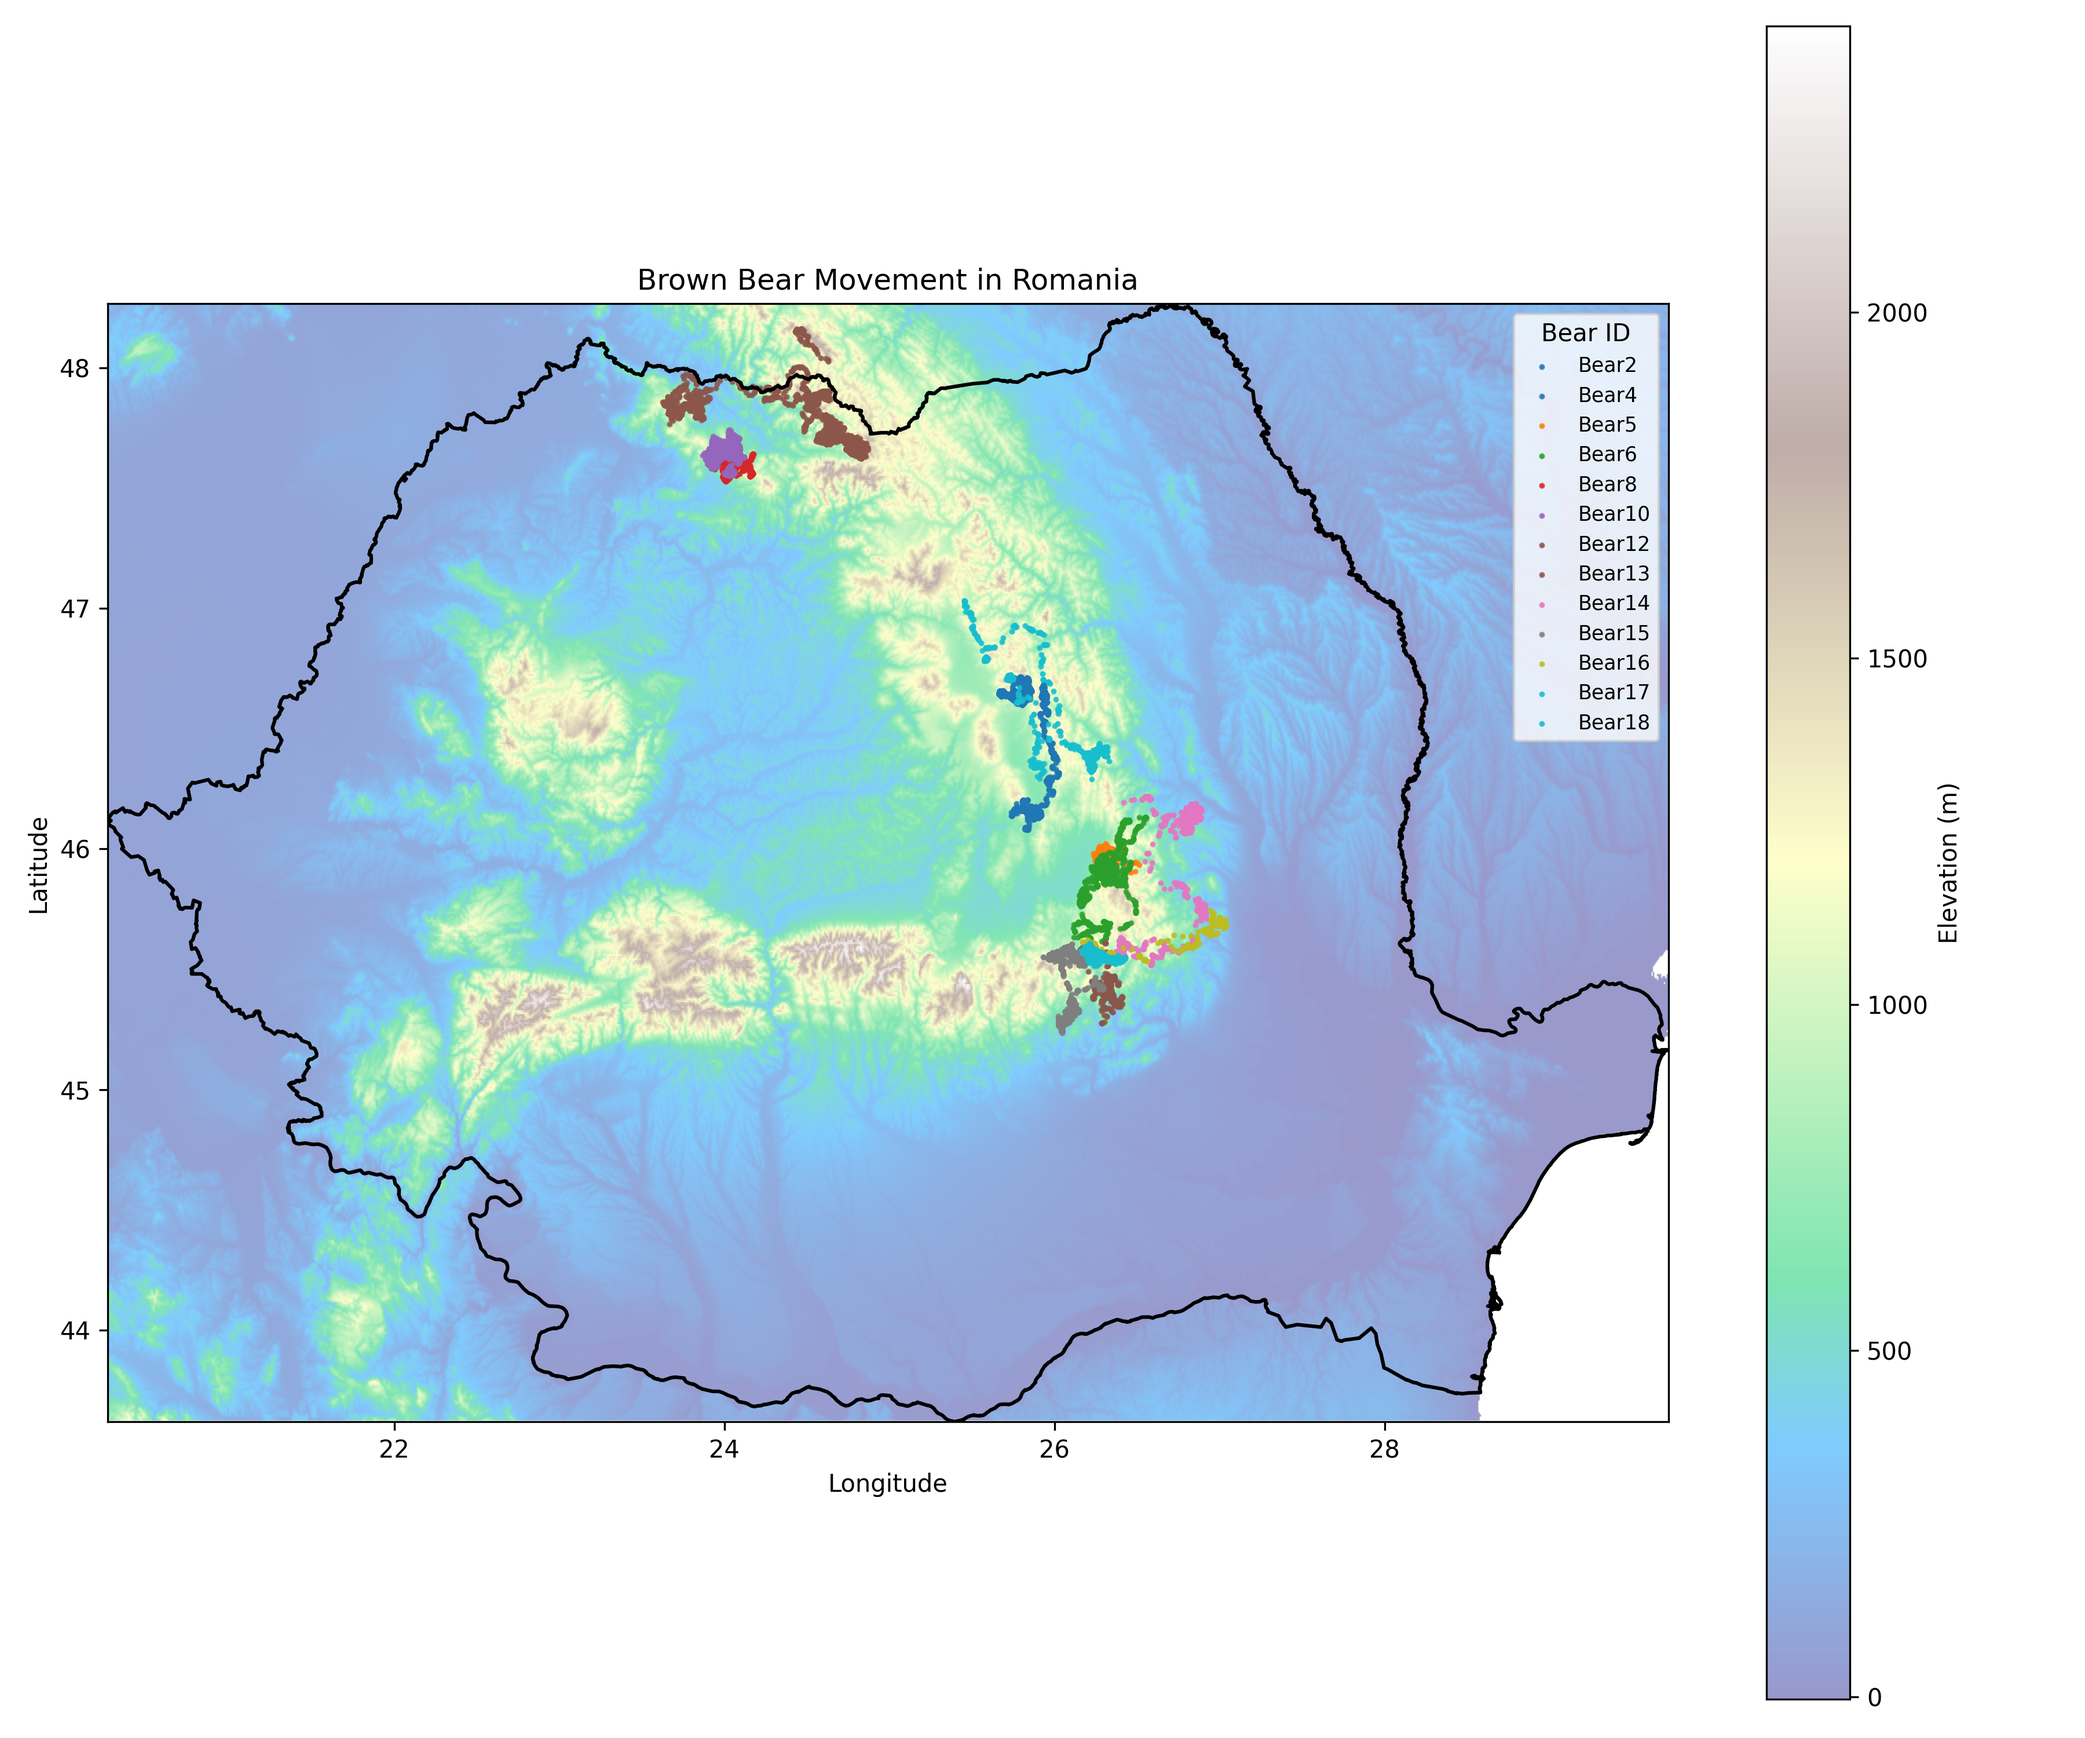
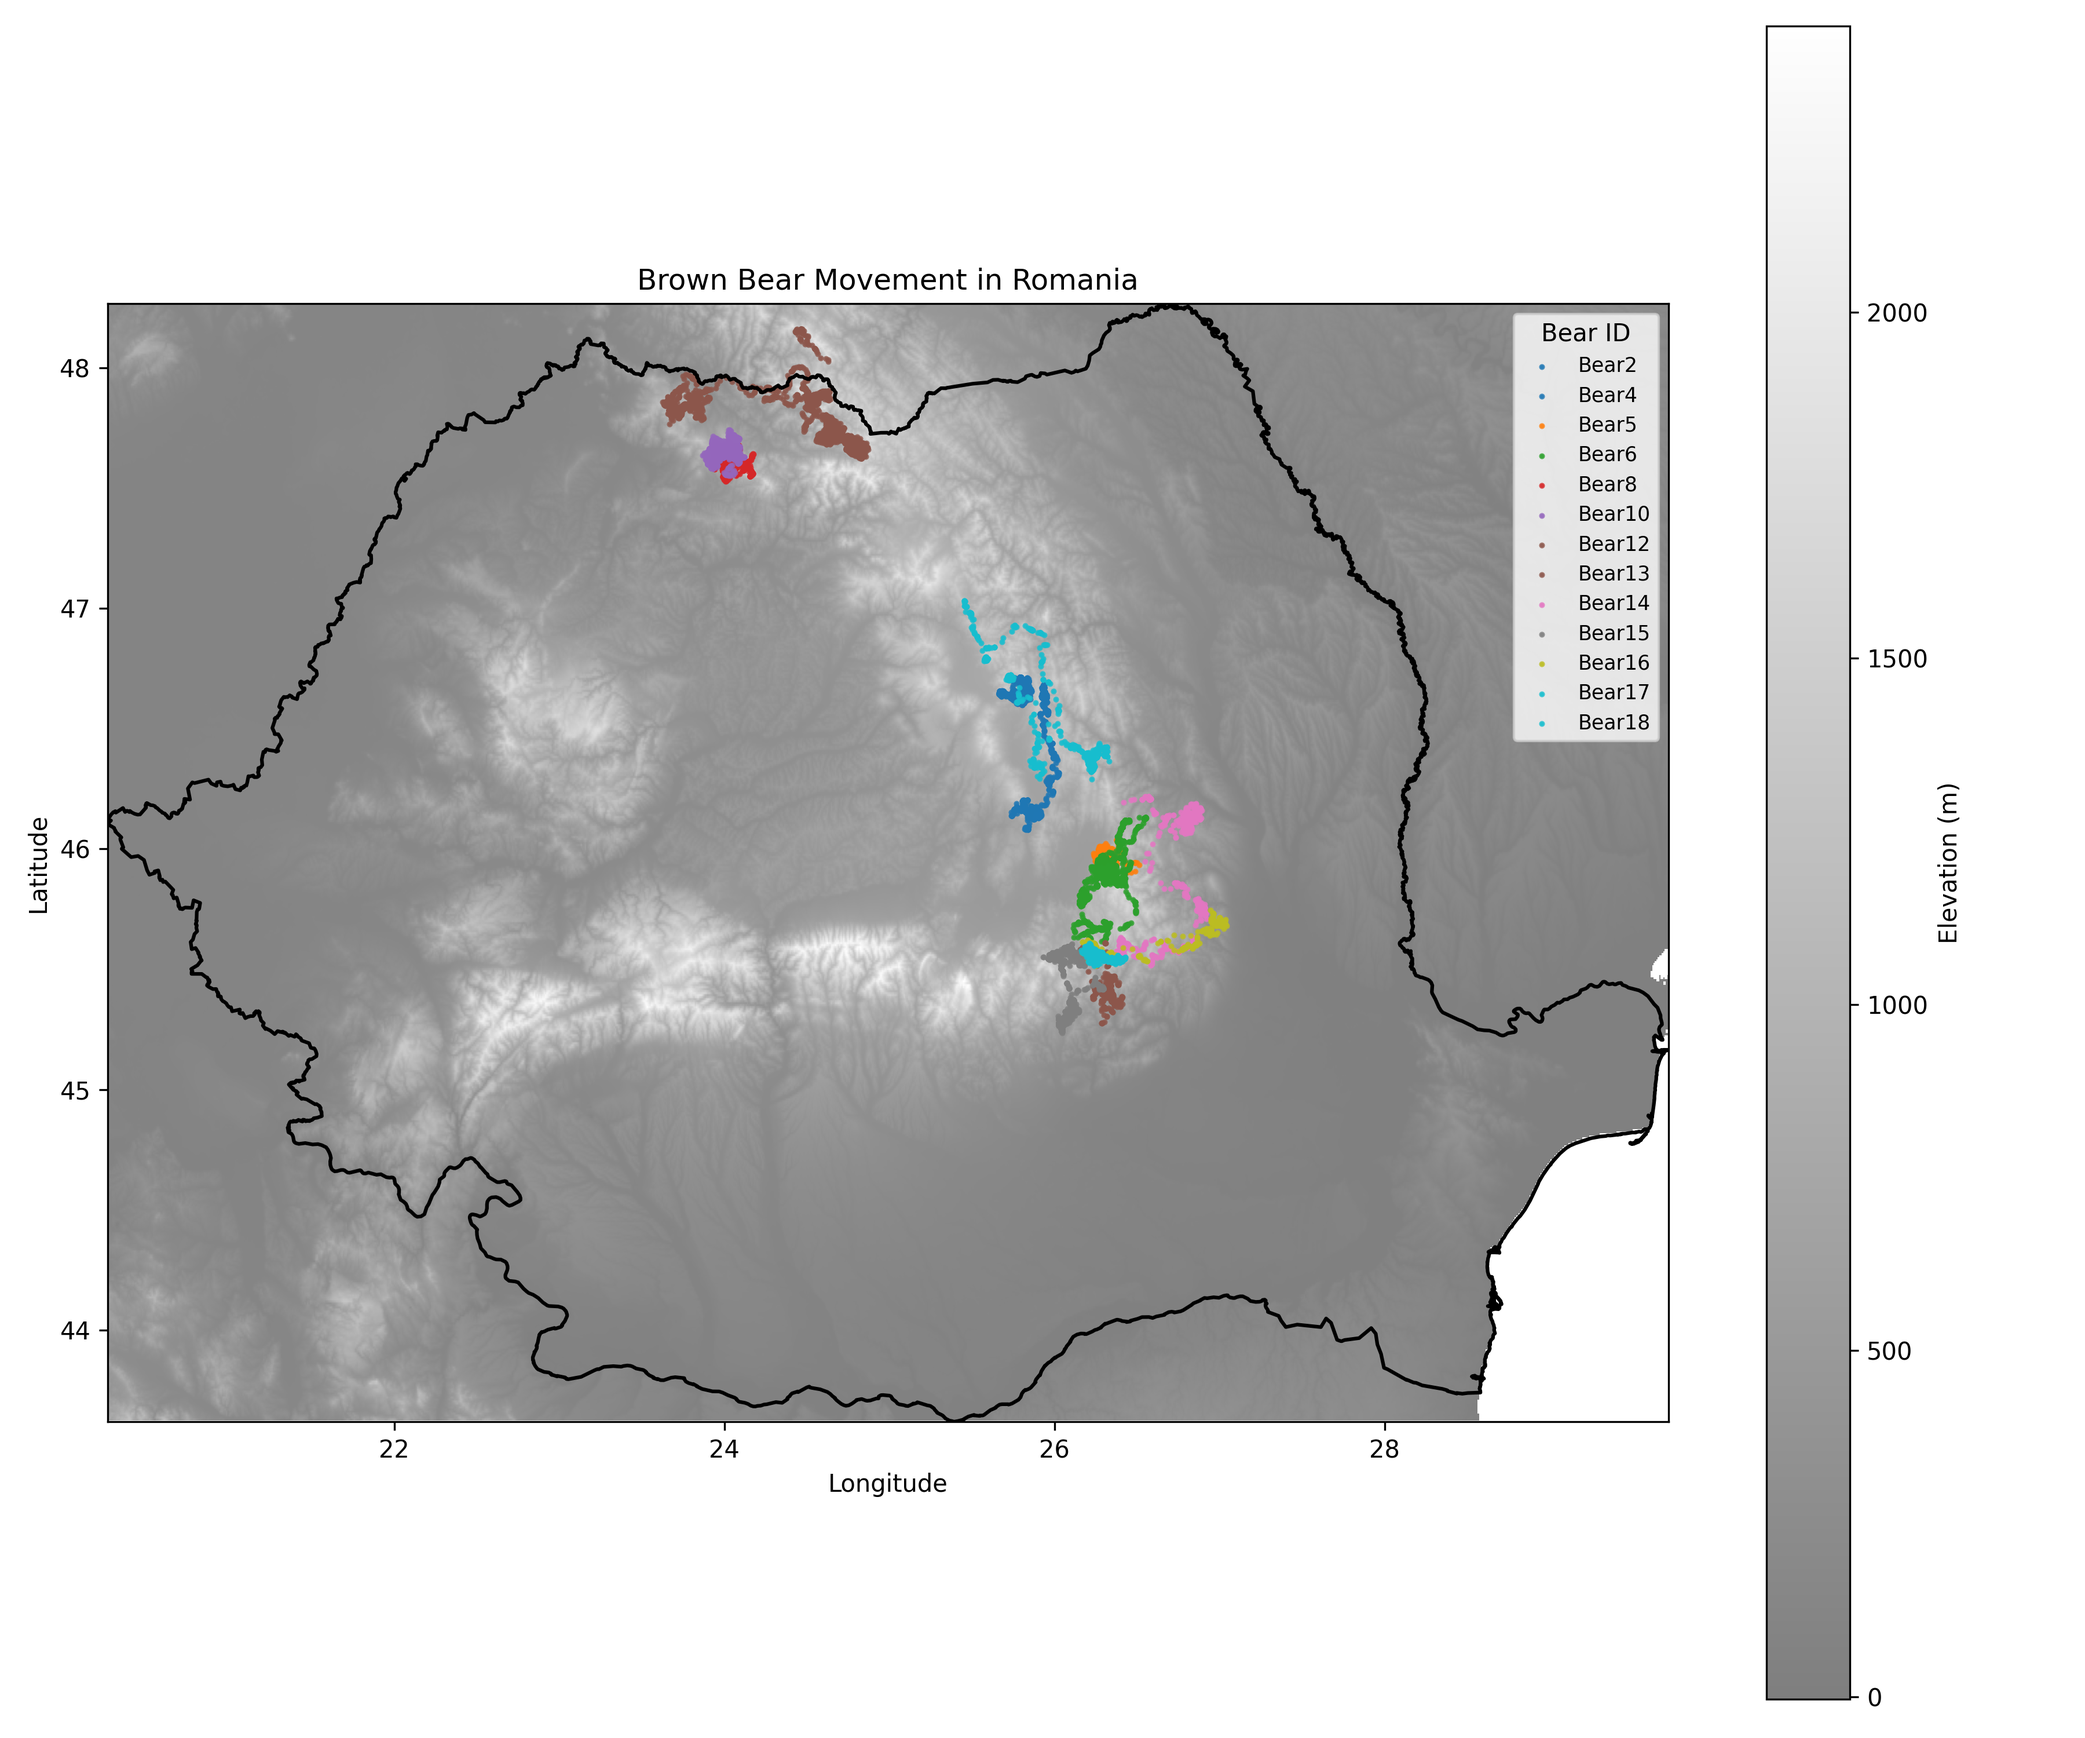
Single Bear tracks

diff --git a/code/map_single_bear.py b/code/map_single_bear.py
@@ -1,0 +1,117 @@
+import pandas as pd
+import geopandas as gpd
+import numpy as np
+import matplotlib.pyplot as plt
+import matplotlib.cm as cm
+
+## for gradient colors
+from matplotlib.colors import Normalize
+from matplotlib.cm import ScalarMappable
+
+import sys
+import os
+
+#### data loading shenanigans
+
+## elevation grid (assumed to be already masked and cropped to Romania)
+# elev = np.load("../data/romania_elevation_grid.npz") ## JUST ROMANIA
+elev = np.load("../data/bears_elevation_grid.npz") ## EXPANDED TO A RECTANGLE
+elevation_grid = elev["elevation"]
+lon_grid = elev["lon"]
+lat_grid = elev["lat"]
+
+## bear GPS data
+df = pd.read_csv("../data/bears/1_bears_RO.csv")
+df['timestamp'] = pd.to_datetime(df['timestamp'])
+gdf = gpd.GeoDataFrame(
+    df,
+    geometry=gpd.points_from_xy(df["X"], df["Y"]),
+    crs="EPSG:3844"
+).to_crs(epsg=4326)
+
+## loading and reprojecting the Romania outline from GADM for border purposes
+romania_shape = gpd.read_file("../data/gadm41_ROU_0.json").to_crs(epsg=4326)
+minx, miny, maxx, maxy = romania_shape.total_bounds
+print(f"Romania boundary bounds: {minx}, {miny}, {maxx}, {maxy}")
+
+#### plotting shenanigans
+bear_ids = gdf["Name"].unique()
+df['timestamp'] = pd.to_datetime(df['timestamp'])
+
+
+os.makedirs("../images/bear_tracks", exist_ok=True)
+
+for bear in bear_ids:
+    print(f"Bearing bear {bear}")
+    bear_data = gdf[gdf["Name"] == bear].sort_values("timestamp")
+    bear_timestamps = bear_data['timestamp'].reset_index(drop=True)
+
+    ## normalizing color map to be [0...1]
+    point_order = np.linspace(0, 1, len(bear_data))
+    # cmap = plt.get_cmap("copper")
+    # cmap = plt.get_cmap("YlOrBr")
+    cmap = plt.get_cmap("Oranges")
+
+    fig, ax = plt.subplots(figsize=(12, 10), constrained_layout=True)
+
+    ## elevation as background
+    masked_elevation = np.ma.masked_invalid(elevation_grid)
+    elevation_plot = ax.imshow(
+        masked_elevation,
+        extent=[lon_grid.min(), lon_grid.max(), lat_grid.min(), lat_grid.max()],
+        origin="upper",
+        # cmap="terrain",
+        cmap="gray",
+        alpha=0.5
+    )
+    plt.colorbar(elevation_plot, ax=ax, label="Elevation (m)")
+
+    ## romania border
+    romania_shape.boundary.plot(ax=ax, color="black", linewidth=1.5, zorder=10)
+
+    ## bear path
+    sc = ax.scatter(
+        bear_data.geometry.x, bear_data.geometry.y,
+        c=point_order, cmap=cmap,
+        s=16,  # dot size
+        label=bear,
+        alpha=0.85
+    )
+
+    ## colorbar for progression
+    norm = Normalize(vmin=0, vmax=1)
+    sm = ScalarMappable(cmap=cmap, norm=norm)
+    sm.set_array([])
+    cbar = plt.colorbar(sm, ax=ax, orientation="vertical", label="Track progression")
+
+    n_ticks = 4
+    tick_locs = np.linspace(0, 1, n_ticks)
+    date_indices = np.linspace(0, len(bear_timestamps) - 1, n_ticks).astype(int)
+    date_labels = [bear_timestamps.iloc[idx].strftime("%Y-%m-%d") for idx in date_indices]
+
+    cbar.set_ticks(tick_locs)
+    cbar.set_ticklabels(date_labels)
+    cbar.ax.set_ylabel("Date")
+
+
+    ## zooming on bear
+    maxx = bear_data.geometry.x.max()
+    minx = bear_data.geometry.x.min()
+    mid_x = (minx + maxx) / 2
+    range_x = (maxx - minx) * 1.25
+
+    maxy = bear_data.geometry.y.max()
+    miny = bear_data.geometry.y.min()
+    mid_y = (miny + maxy) / 2
+    range_y = (maxy - miny) * 1.25
+
+    ax.set_xlim(mid_x - range_x / 2, mid_x + range_x / 2)
+    ax.set_ylim(mid_y - range_y / 2, mid_y + range_y / 2)
+
+    ## rest of axis shenanigans
+    ax.set_title(f"Movement of {bear}")
+    ax.set_xlabel("Longitude")
+    ax.set_ylabel("Latitude")
+
+    plt.savefig(f"../images/bear_tracks/{bear}_track.png", dpi=300)
+    plt.close(fig)

diff --git a/code/map_colored_bears_on_height_map.py b/code/map_colored_bears_on_height_map.py
@@ -36,7 +36,8 @@ elev_plot = ax.imshow(
     masked_elev,
     extent=[lon_grid.min(), lon_grid.max(), lat_grid.min(), lat_grid.max()],
     origin="upper",
-    cmap="terrain",
+    cmap="gray",
+    # cmap="terrain",
     alpha=0.5
 )
 cbar = plt.colorbar(elev_plot, ax=ax, label="Elevation (m)")
